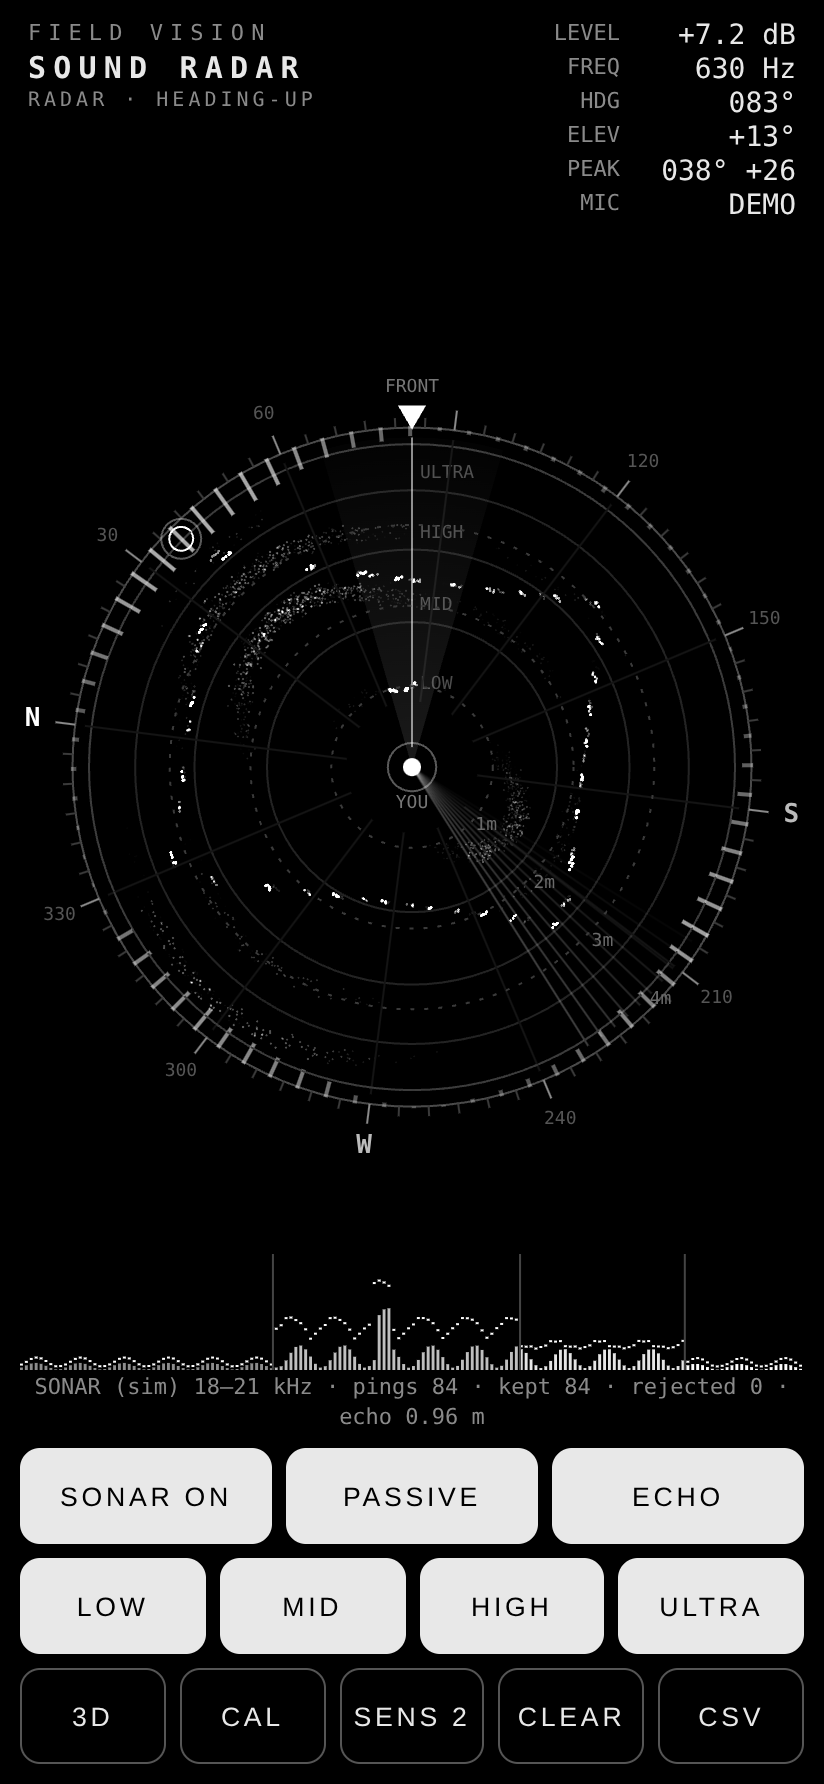
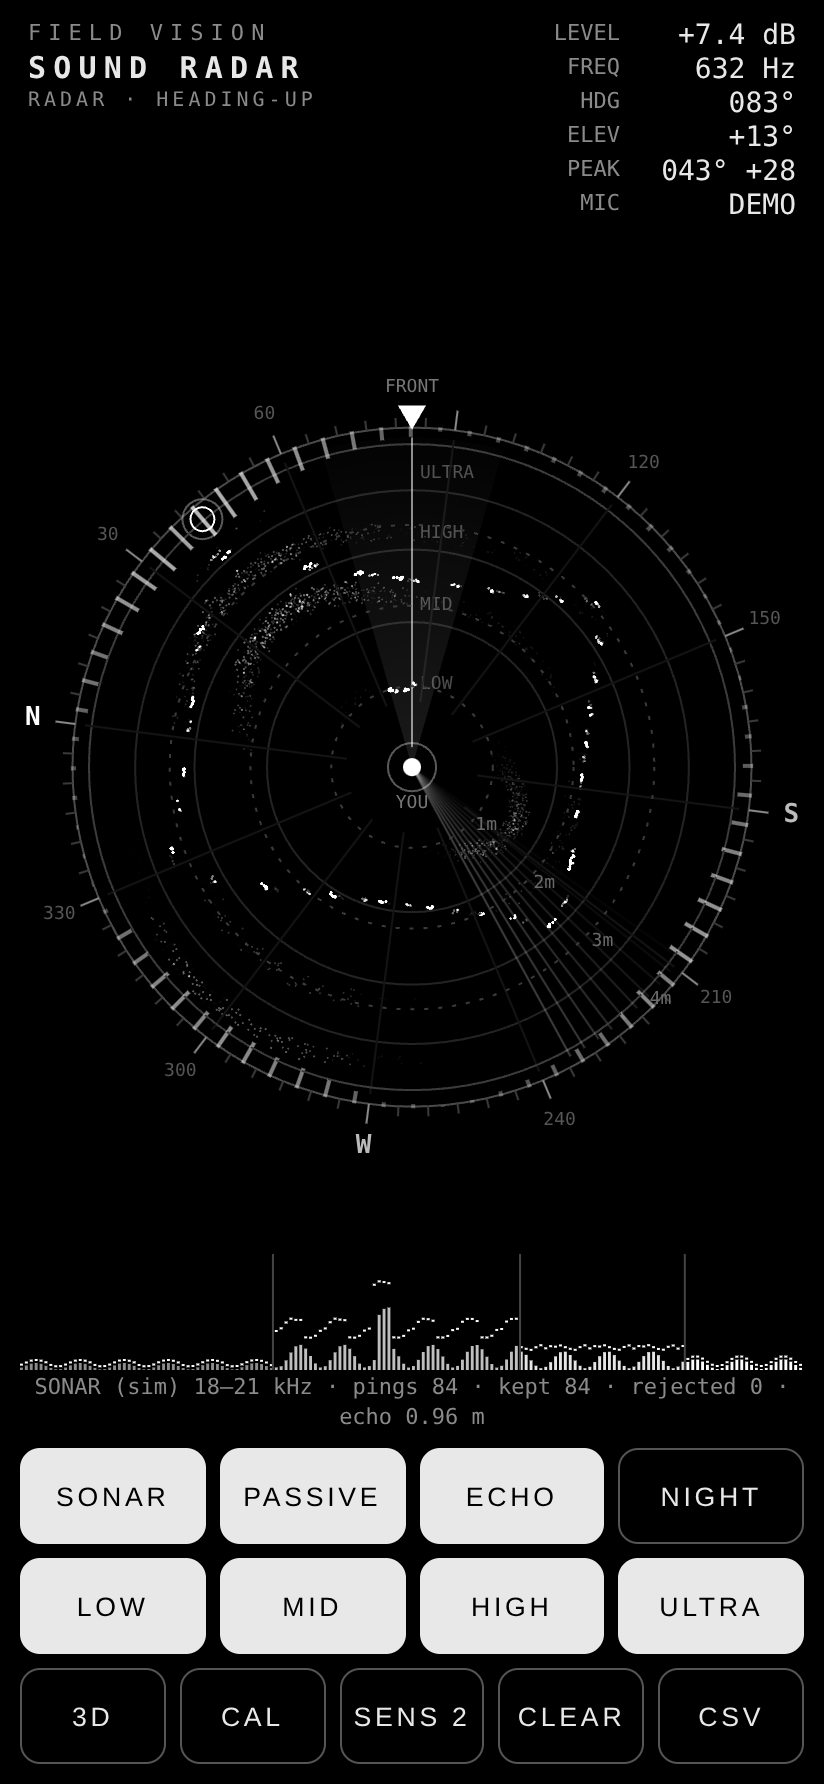
Night mode (persisted) and screen wake lock

diff --git a/index.html b/index.html
@@ -27,6 +27,12 @@ button.dim{color:#666;border-color:#2a2a2a}
 #msg{font-size:11px;color:var(--g);text-align:center;min-height:14px;margin-top:2px;line-height:1.35}
 #spec{display:block;width:100%;height:58px}
 .hide{display:none!important}
+body.night{--w:#7a7a7a;--g:#4a4a4a}
+body.night button{color:#7a7a7a;border-color:#2c2c2c}
+body.night button.on{background:#3a3a3a;color:#000;border-color:#3a3a3a}
+body.night button.dim{color:#3a3a3a;border-color:#1a1a1a}
+body.night button:active{background:#141414}
+body.night #start{border-color:#5a5a5a}
 #overlay{position:fixed;inset:0;display:flex;flex-direction:column;justify-content:center;align-items:center;padding:30px;text-align:center;background:rgba(0,0,0,.86);z-index:5}
 #overlay h1{font-size:20px;letter-spacing:.35em;margin:0 0 6px;font-weight:600}
 #overlay p{color:var(--g);font-size:12px;line-height:1.6;max-width:340px;margin:6px 0}
@@ -53,7 +59,7 @@ button.dim{color:#666;border-color:#2a2a2a}
   <canvas id="spec"></canvas>
   <div id="msg"></div>
   <div class="row">
-    <button id="sonar">SONAR OFF</button><button id="layP" class="on">PASSIVE</button><button id="layS" class="on">ECHO</button>
+    <button id="sonar">SONAR</button><button id="layP" class="on">PASSIVE</button><button id="layS" class="on">ECHO</button><button id="night">NIGHT</button>
   </div>
   <div class="row" id="bands">
     <button class="on" data-b="0">LOW</button><button class="on" data-b="1">MID</button><button class="on" data-b="2">HIGH</button><button class="on" data-b="3">ULTRA</button>
@@ -182,10 +188,11 @@ geo.boundingSphere = new THREE.Sphere(new THREE.Vector3(), 1e5);
 let head = 0, dirtyFrom = -1, dirtyCount = 0;
 
 const common = {
-  uTime:{value:0}, uFade:{value:FADE}, uSize:{value:1.6*DPR}, uHead:{value:0}, uSweep:{value:0}, uScale:{value:1}, uShowP:{value:1}, uShowS:{value:1},
+  uTime:{value:0}, uFade:{value:FADE}, uSize:{value:1.6*DPR}, uHead:{value:0}, uSweep:{value:0}, uScale:{value:1}, uShowP:{value:1}, uShowS:{value:1}, uGain:{value:1}, uBoost:{value:1.6},
 };
 const FRAG = `
 precision highp float;
+uniform float uGain;
 varying float vA; varying float vL;
 void main(){
   vec2 p = gl_PointCoord*2.0-1.0; float r = dot(p,p);
@@ -193,11 +200,11 @@ void main(){
   float a;
   if(vL>0.5){ a = (smoothstep(0.62,0.3,r) + (1.0-r)*0.08)*vA*1.35; }        // sonar echo: crisp, bright
   else { a = (smoothstep(0.55,0.2,r)*0.6 + (1.0-r)*0.2)*vA*0.75; }          // passive sound: dimmer haze
-  gl_FragColor = vec4(vec3(min(a,1.0)),1.0);
+  gl_FragColor = vec4(vec3(min(a,1.0)*uGain),1.0);
 }`;
 const VCOMMON = `
 attribute vec4 aData; attribute vec3 aMeta;
-uniform float uTime,uFade,uSize,uHead,uSweep,uScale,uShowP,uShowS;
+uniform float uTime,uFade,uSize,uHead,uSweep,uScale,uShowP,uShowS,uBoost;
 varying float vA; varying float vL;
 float lifeA(){ vL=aMeta.z; if((aMeta.z>0.5?uShowS:uShowP)<0.5) return 0.0; float age=uTime-aMeta.x; if(age<0.0||age>uFade) return 0.0; float f=1.0-age/uFade; return f*f*aMeta.y; }
 `;
@@ -209,7 +216,7 @@ const matRadar = new THREE.ShaderMaterial({
     float d=aData.x-uHead;                       // heading-up: forward = screen up
     vec2 p=vec2(sin(d),cos(d))*aData.z;
     float sw=mod(uSweep-aData.x,6.28318);        // brighten just behind the rotating sweep
-    float boost=1.0+1.6*exp(-sw*3.0);
+    float boost=1.0+uBoost*exp(-sw*3.0);
     vA=min(a*boost,1.0);
     gl_Position=projectionMatrix*modelViewMatrix*vec4(p,0.0,1.0);
     gl_PointSize=uSize*(0.85+0.4*a)*(aMeta.z>0.5?1.2:1.0);
@@ -489,7 +496,7 @@ $('sonar').onclick=async()=>{
   }
   son.on=!son.on; son.nextT=0; son.pend.length=0; son.hist.length=0;
   if(bandBins.length){ if(S.ultraHi==null) S.ultraHi=bandBins[3][1]; bandBins[3][1]=son.on?Math.round(16500/binHz):S.ultraHi; } // keep chirps out of the passive layer
-  $('sonar').textContent=son.on?'SONAR ON':'SONAR OFF'; $('sonar').className=son.on?'on':'';
+  $('sonar').textContent='SONAR'; $('sonar').className=son.on?'on':'';
   if(!son.on) msg('Sonar off. Passive listening only, no sound output.');
 };
 $('layP').onclick=()=>{ common.uShowP.value=common.uShowP.value?0:1; $('layP').className=common.uShowP.value?'on':'dim'; };
@@ -571,7 +578,7 @@ function drawRadarHud(){
     g.setLineDash([]); }
   // Peter
   g.fillStyle='#fff'; g.beginPath(); g.arc(cx,cy,4.5,0,7); g.fill();
-  g.strokeStyle='rgba(255,255,255,0.35)'; g.beginPath(); g.arc(cx,cy,9+4*Math.sin(S.now*4),0,7); g.stroke();
+  g.strokeStyle='rgba(255,255,255,0.35)'; g.beginPath(); g.arc(cx,cy,night?11:9+4*Math.sin(S.now*4),0,7); g.stroke();
   g.fillStyle='#777'; g.font='9px ui-monospace,monospace'; g.fillText('YOU',cx,cy+18);
   g.fillText('FRONT',cx,cy-RP*1.03-20);
 }
@@ -632,6 +639,17 @@ const up=e=>{ ptrs.delete(e.pointerId); if(ptrs.size<2) pinch0=0; };
 gl.addEventListener('pointerup',up); gl.addEventListener('pointercancel',up);
 gl.addEventListener('wheel',e=>{ orbit.dist=Math.min(9,Math.max(0.6,orbit.dist*(1+e.deltaY*0.001))); },{passive:true});
 
+// ---------- night mode + screen wake lock ----------
+let night=false; const meMat=scaffold.children.find(o=>o.isMesh)?.material;
+function setNight(on){ night=on; document.body.classList.toggle('night',on); $('night').className=on?'on':'';
+  common.uGain.value=on?0.45:1; common.uBoost.value=on?0.35:1.6;
+  if(meMat) meMat.color.setHex(on?0x5a5a5a:0xffffff); beam.material.color.setHex(on?0x3a3a3a:0x9a9a9a);
+  try{ localStorage.setItem('fv-night',on?'1':'0'); }catch(e){} }
+$('night').onclick=()=>setNight(!night);
+try{ if(localStorage.getItem('fv-night')==='1') setNight(true); }catch(e){}
+let wakeLock=null;
+async function wake(){ try{ if('wakeLock' in navigator && document.visibilityState==='visible' && !wakeLock){ wakeLock=await navigator.wakeLock.request('screen'); wakeLock.addEventListener('release',()=>{ wakeLock=null; }); } }catch(e){} }
+document.addEventListener('visibilitychange',()=>{ if(document.visibilityState==='visible' && S.running) wake(); });
 function msg(t){ $('msg').textContent=t; }
 document.querySelectorAll('#bands button').forEach(b=>b.onclick=()=>{ const i=+b.dataset.b; bandOn[i]=!bandOn[i]; b.className=bandOn[i]?'on':'dim'; });
 $('view').onclick=()=>{ S.view=S.view==='radar'?'3d':'radar'; $('view').textContent=S.view==='radar'?'3D':'RADAR'; $('mode').textContent=S.view==='radar'?'RADAR · HEADING-UP':'3D · FOLLOW POINTER'; };
@@ -641,7 +659,7 @@ $('clear').onclick=()=>{ clearParticles(); log.length=0; msg('Cleared'); };
 $('csv').onclick=exportCsv;
 
 $('start').onclick=async()=>{
-  $('start').textContent='…';
+  $('start').textContent='…'; wake();
   try{
     if(!DEMO){ await initOrientation(); await initAudio(); }
     $('overlay').classList.add('hide'); S.running=true;
@@ -668,6 +686,7 @@ function frame(now){
   if(S.view==='radar'){ renderer.render(sceneR,camR); drawRadarHud(); }
   else { update3DCam(); renderer.render(scene3,cam3); draw3DHud(); }
   drawSpectrum();
+  if(night){ for(const [c,w,h] of [[hx,W,H],[sx,spec.width,spec.height]]){ c.save(); c.setTransform(1,0,0,1,0,0); c.globalCompositeOperation='destination-out'; c.fillStyle='rgba(0,0,0,0.5)'; c.fillRect(0,0,c.canvas.width,c.canvas.height); c.restore(); } }
   // readouts
   $('rDb').textContent=(S.running?'+'+S.totalAbove.toFixed(1):'--')+' dB';
   $('rHz').textContent=S.domHz?(S.domHz>=1000?(S.domHz/1000).toFixed(2)+' kHz':Math.round(S.domHz)+' Hz'):'-- Hz';
@@ -683,7 +702,7 @@ resize();
 if(DEMO){
   // pre-fill ~25 s of sweeping so the map is populated immediately
   S.running=true; $('overlay').classList.add('hide'); msg('DEMO · synthetic sources at 040° voice, 205° hum, 300° whine, 120° traffic');
-  const save=S.t0; son.on=true; $('sonar').textContent='SONAR ON'; $('sonar').className='on';
+  const save=S.t0; son.on=true; $('sonar').className='on';
   for(let k=0;k<25*30;k++){ S.now=k/30; demoMotion(); analyse(); emit(1/30); demoSonar(); }
   son.demoNext=0;
   S.t0=performance.now()-25000; flushParticles(); head=head; dirtyFrom=0; dirtyCount=CAP; flushParticles();
